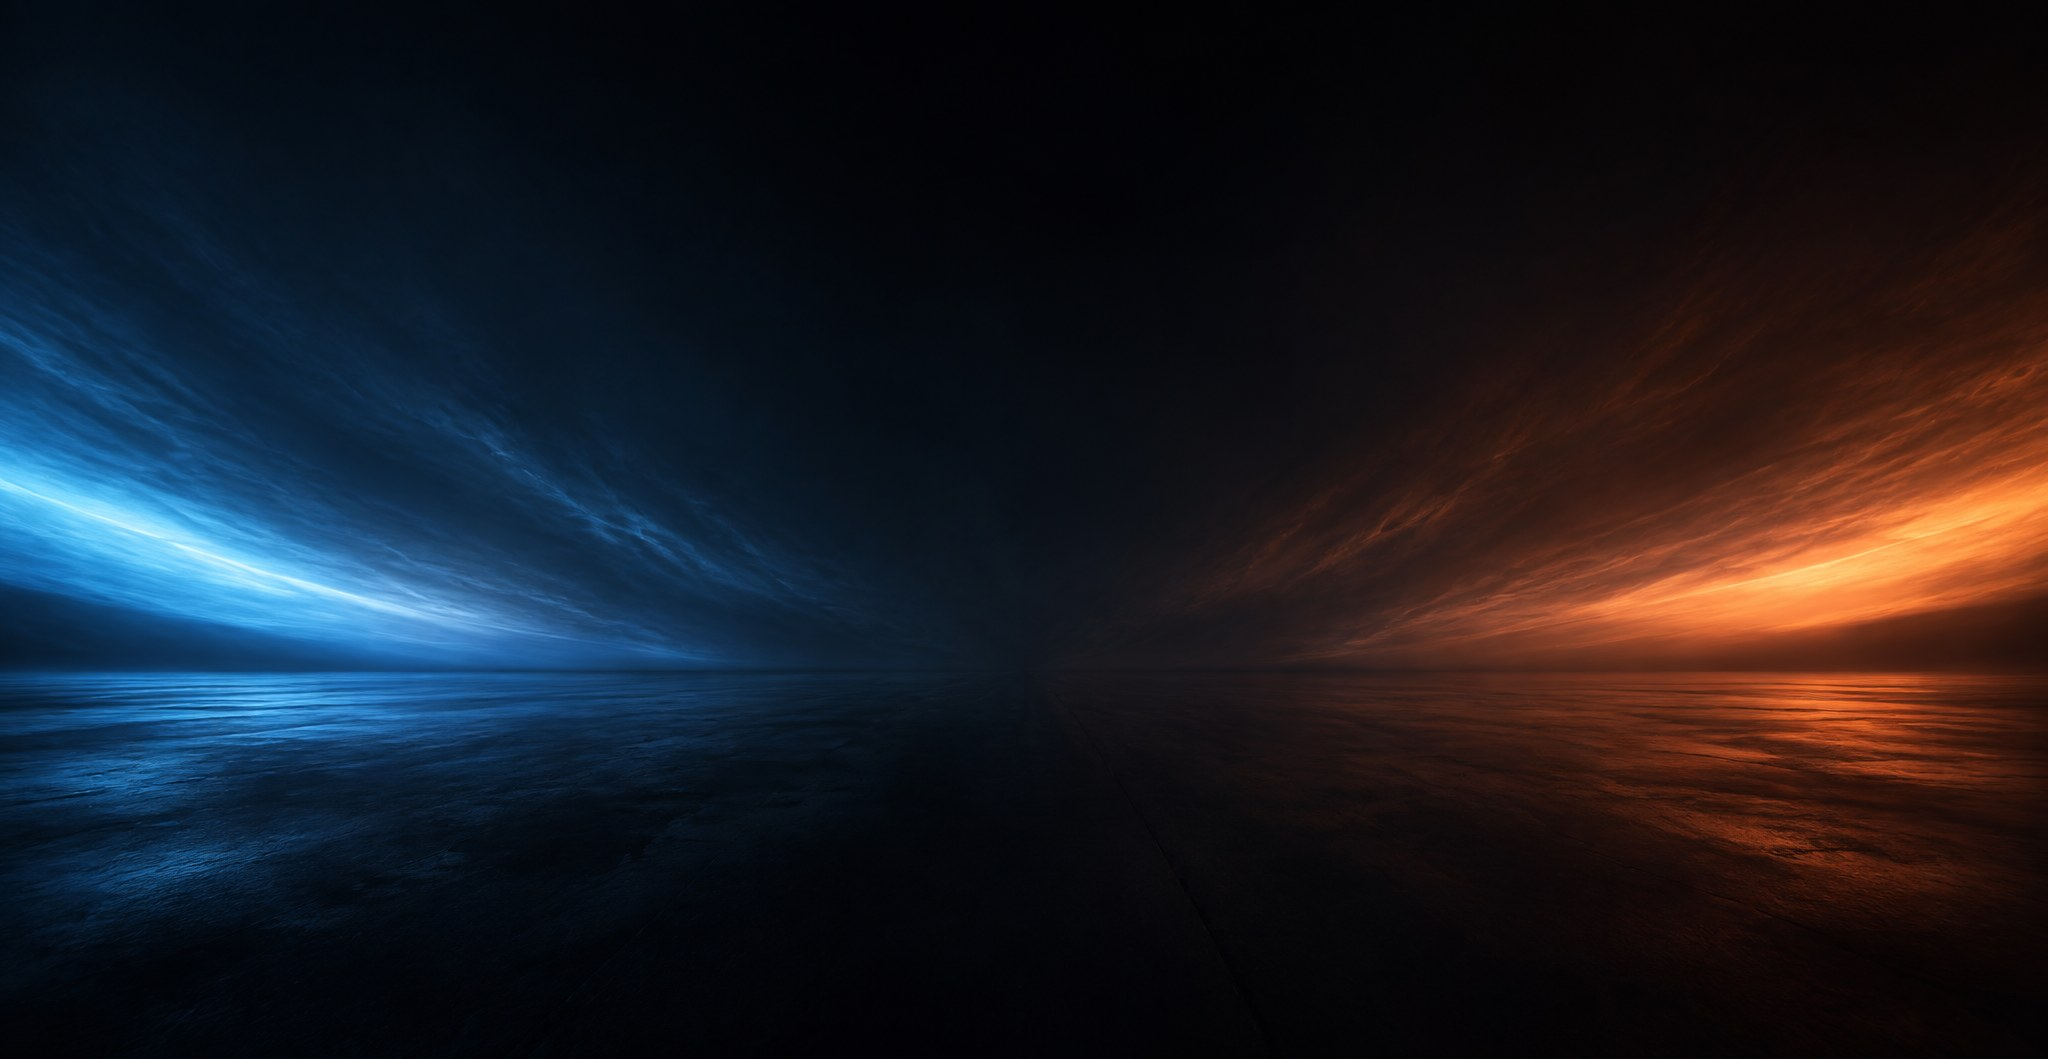
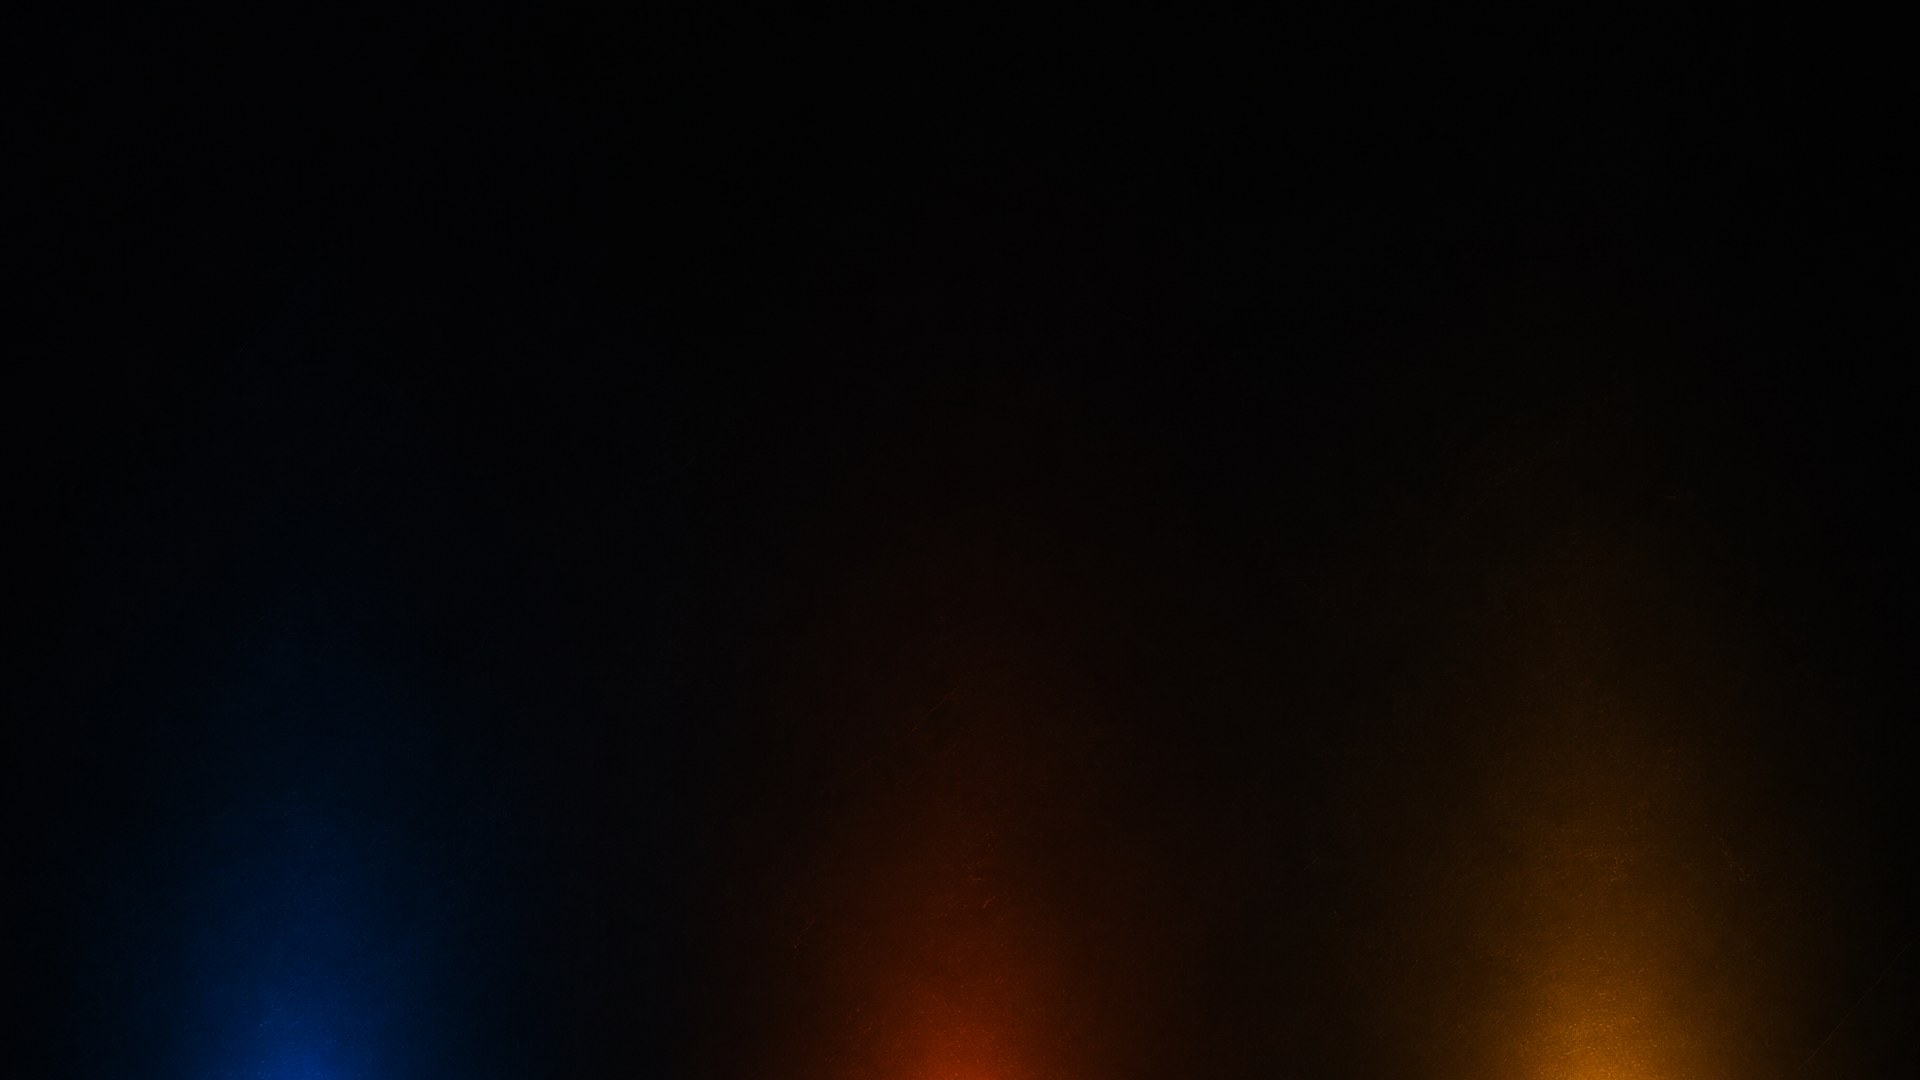
Brand-accurate art round + In the Lab teaser card
- New app-arrows.jpg (blue arrow murmuration, matches 3D hero toy language)
- New cta-bg.jpg (three product-color washes, text-safe darkness)
- New support-card.jpg replaces about-2 reuse on Support service card
- Restore What's Next teaser card (lab-next.jpg) as full-width portfolio row
- Rowflare confirmed React Native utility; legal already says mobile app

diff --git a/src/config.ts b/src/config.ts
@@ -141,7 +141,7 @@ export const servicesConfig: ServicesConfig = {
       title: "Support That Answers",
       description:
         "Real humans, real replies. We keep maintaining our apps long after launch and listen to the people who use them.",
-      image: "/images/about-2.jpg",
+      image: "/images/support-card.jpg",
     },
   ],
 };
@@ -218,6 +218,14 @@ export const portfolioConfig: PortfolioConfig = {
       href: "https://xn--fjal-opa.com",
       accent: "#D08700",
       hasEmbeddedPromoFooter: true,
+    },
+    {
+      title: "What's Next",
+      category: "Something small and surprising is taking shape in the lab.",
+      status: "In the lab",
+      year: "Soon",
+      image: "/images/lab-next.jpg",
+      accent: "#131313",
     },
   ],
   cta: {

diff --git a/src/sections/Portfolio.tsx b/src/sections/Portfolio.tsx
@@ -215,6 +215,12 @@ export function Portfolio() {
               </span>
             </a>
           )}
+
+          {portfolioConfig.projects[3] && (
+            <div className="lg:col-span-3">
+              <ProjectCard project={portfolioConfig.projects[3]} index={3} isVisible={visibleItems[3]} wide />
+            </div>
+          )}
         </div>
       </div>
     </section>